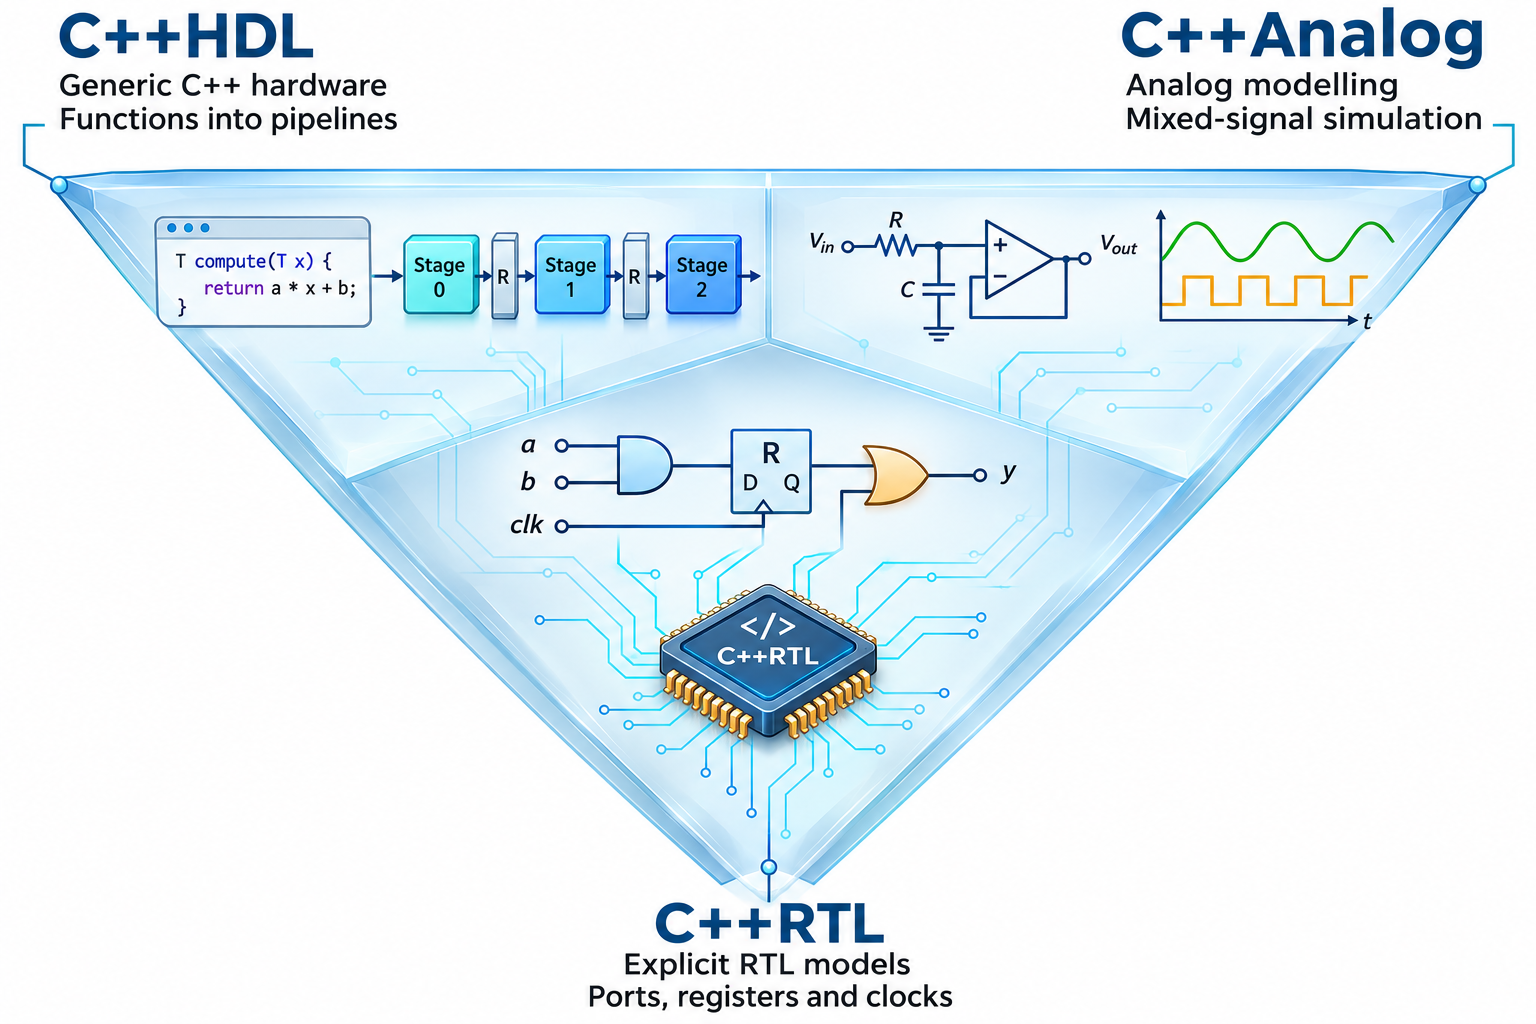
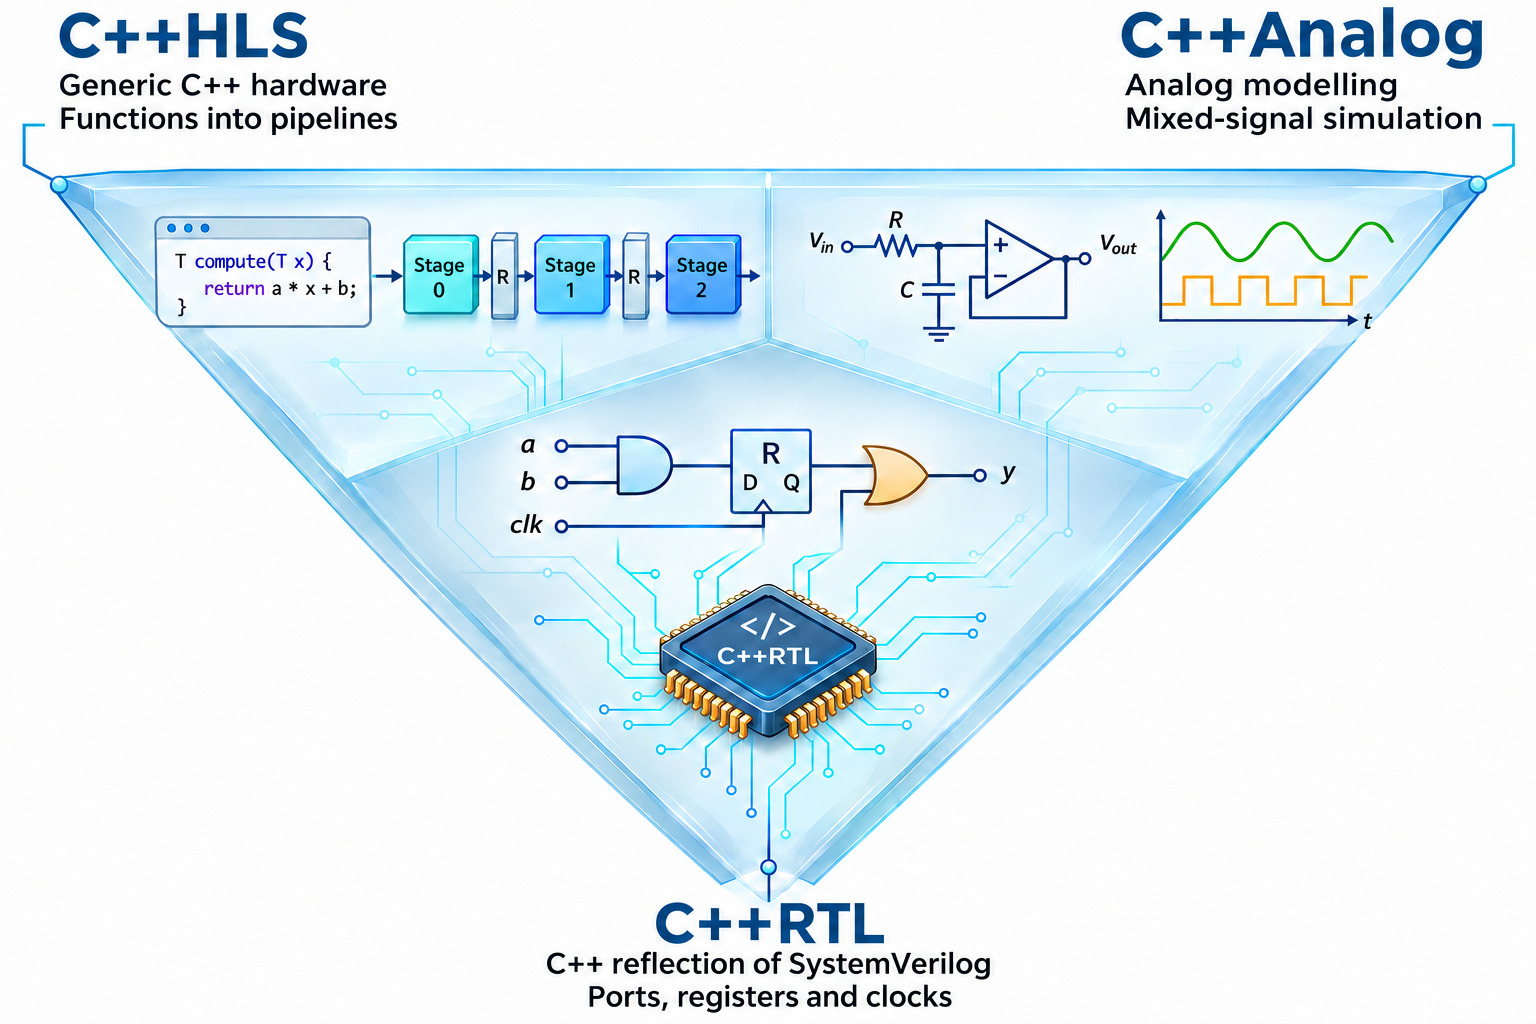
Clarify C++HLS and C++RTL labels in README illustration

diff --git a/README.md b/README.md
@@ -12,9 +12,9 @@ The book: https://github.com/mirekez/cpphdl/blob/main/doc/cpphdl_book.pdf
 
 Some resources on wiki: https://github.com/mirekez/cpphdl/wiki
 
-![Inverted pyramid: C++HDL for generic C++ hardware and pipelines, C++Analog for analog modelling and mixed-signal simulation, and C++RTL for explicit RTL models.](doc/cpphdl-layers.png)
+![Inverted pyramid: C++HLS for generic C++ hardware and pipelines, C++Analog for analog modelling and mixed-signal simulation, and C++RTL as a C++ reflection of SystemVerilog.](doc/cpphdl-layers.png)
 
-- **C++HDL:** Describe hardware in generic C++ and use HLS scheduling and retiming to spread computations across pipeline stages.
+- **C++HLS:** Describe hardware in generic C++ and use HLS scheduling and retiming to spread computations across pipeline stages.
 - **C++Analog:** Describe analog behaviour in C++ and connect the models to mixed-signal simulations.
 - **C++RTL:** Describe explicit RTL models in C++, with ports, registers, combinational logic, and clocks.
 
